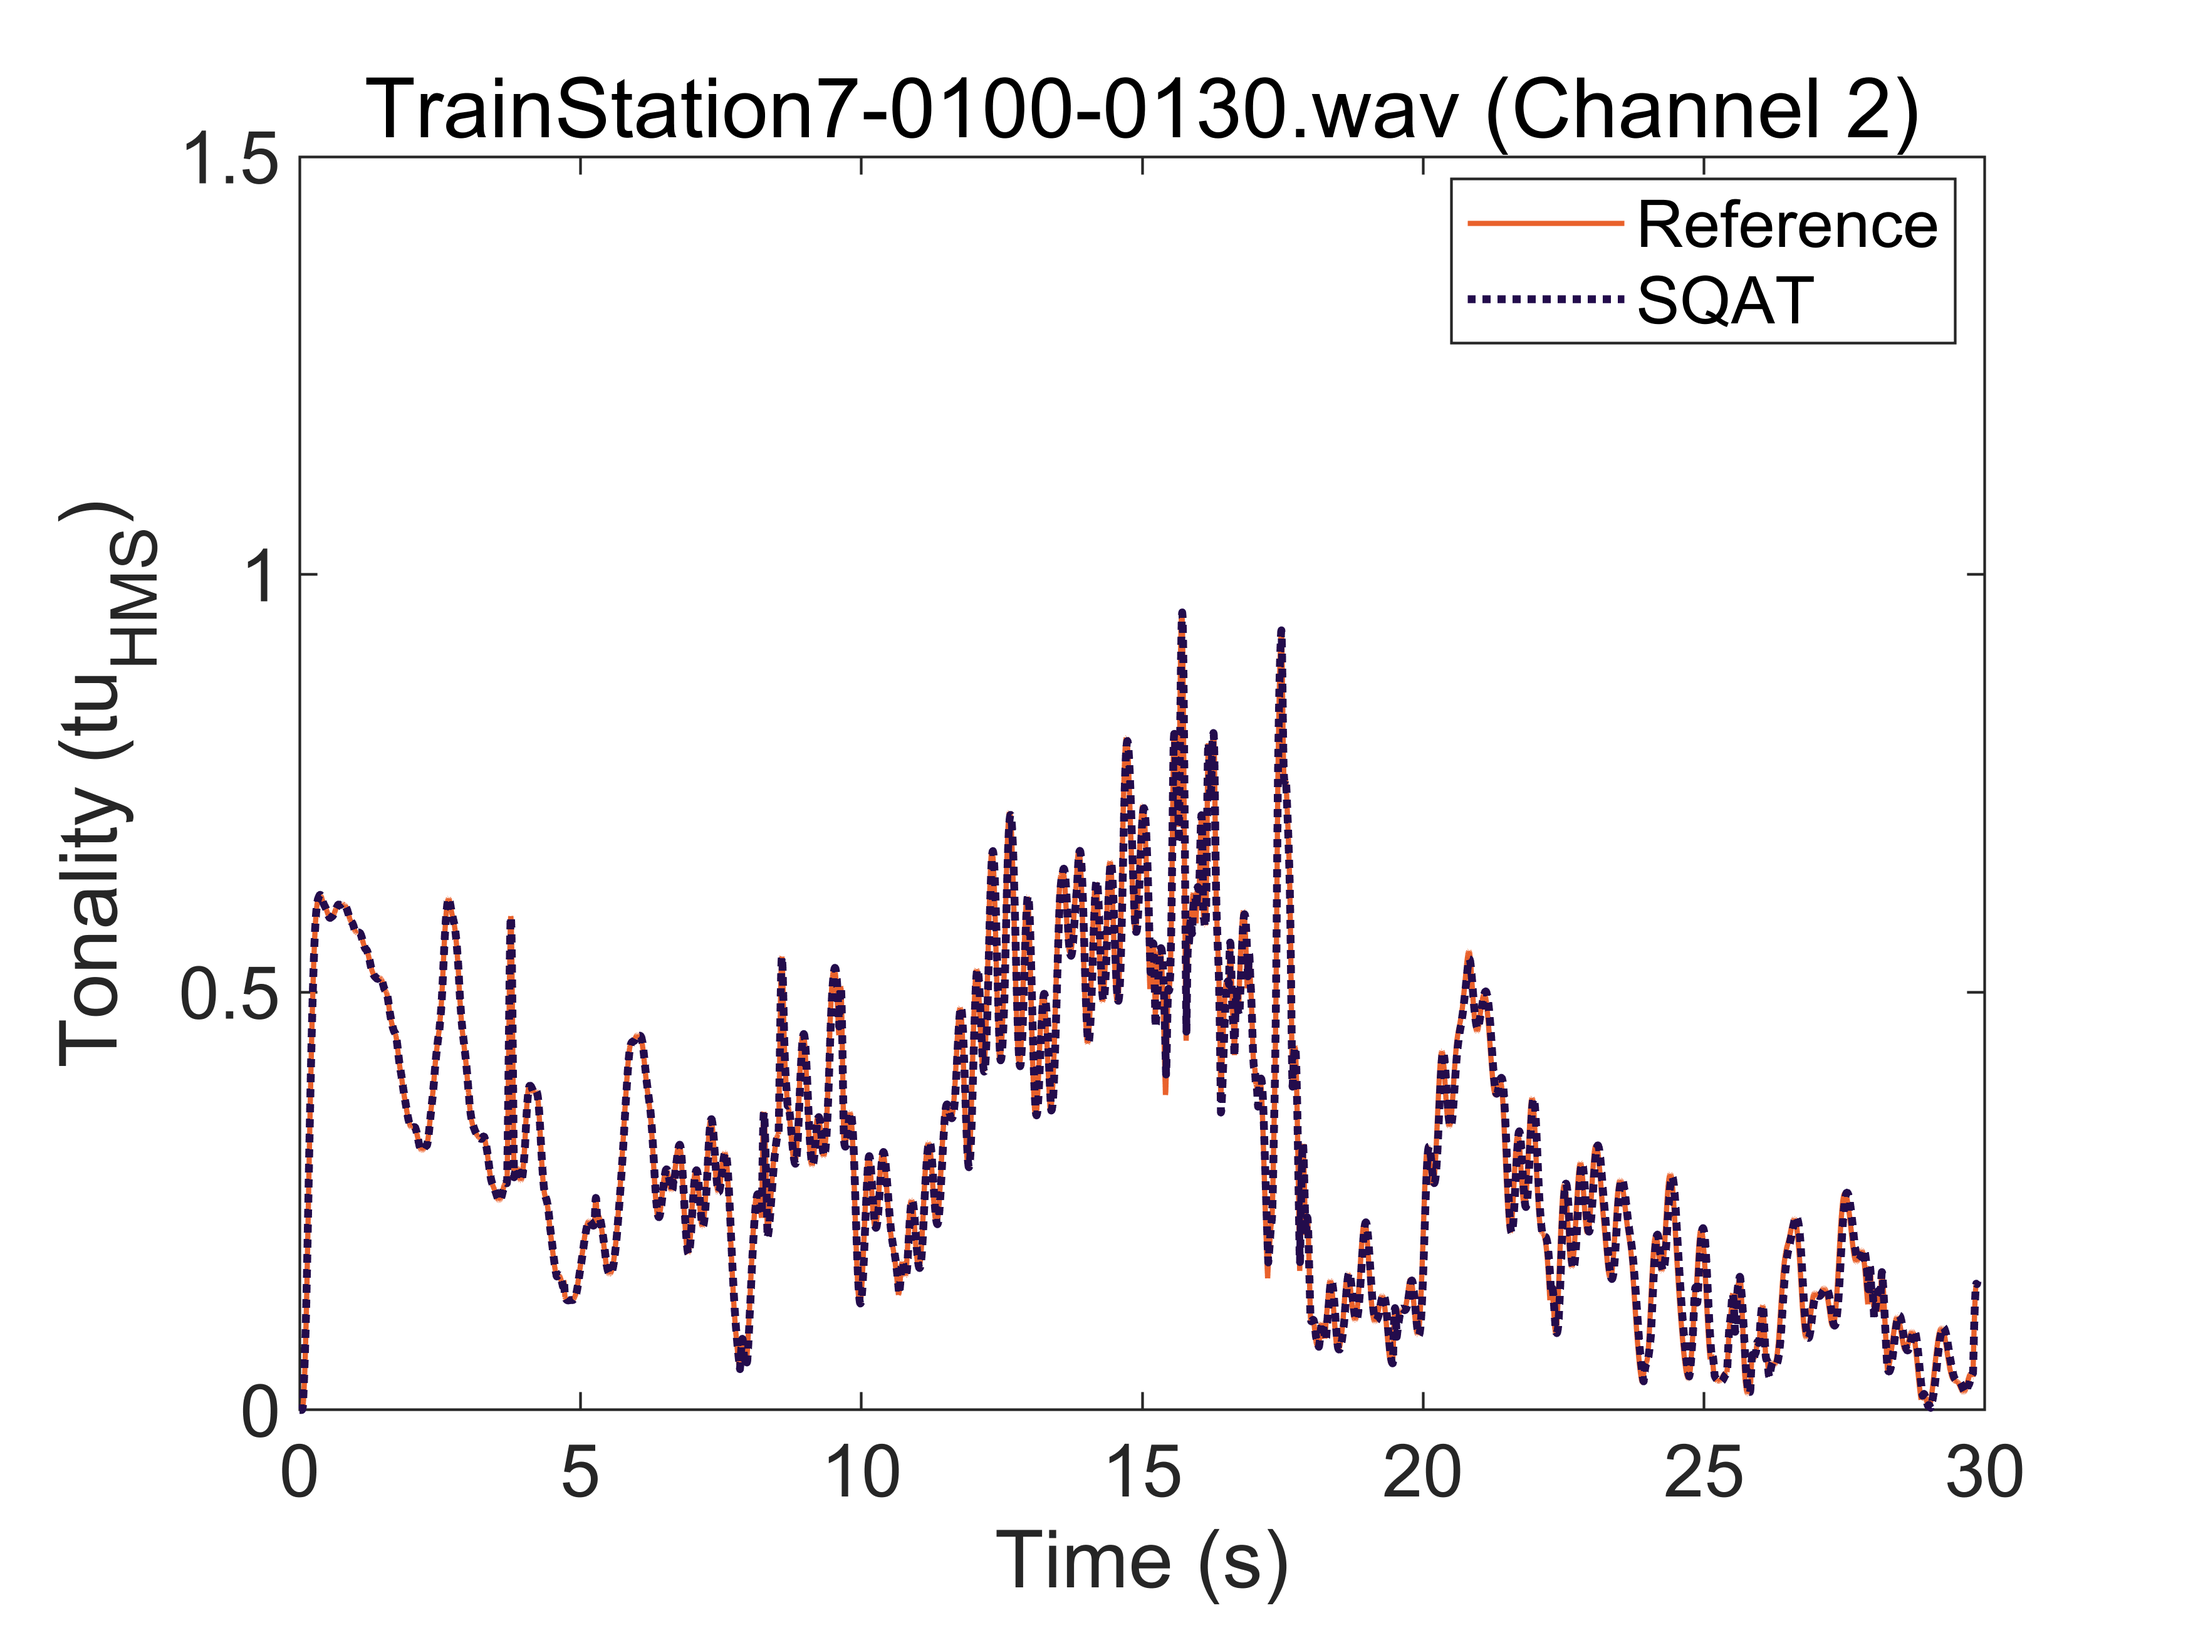
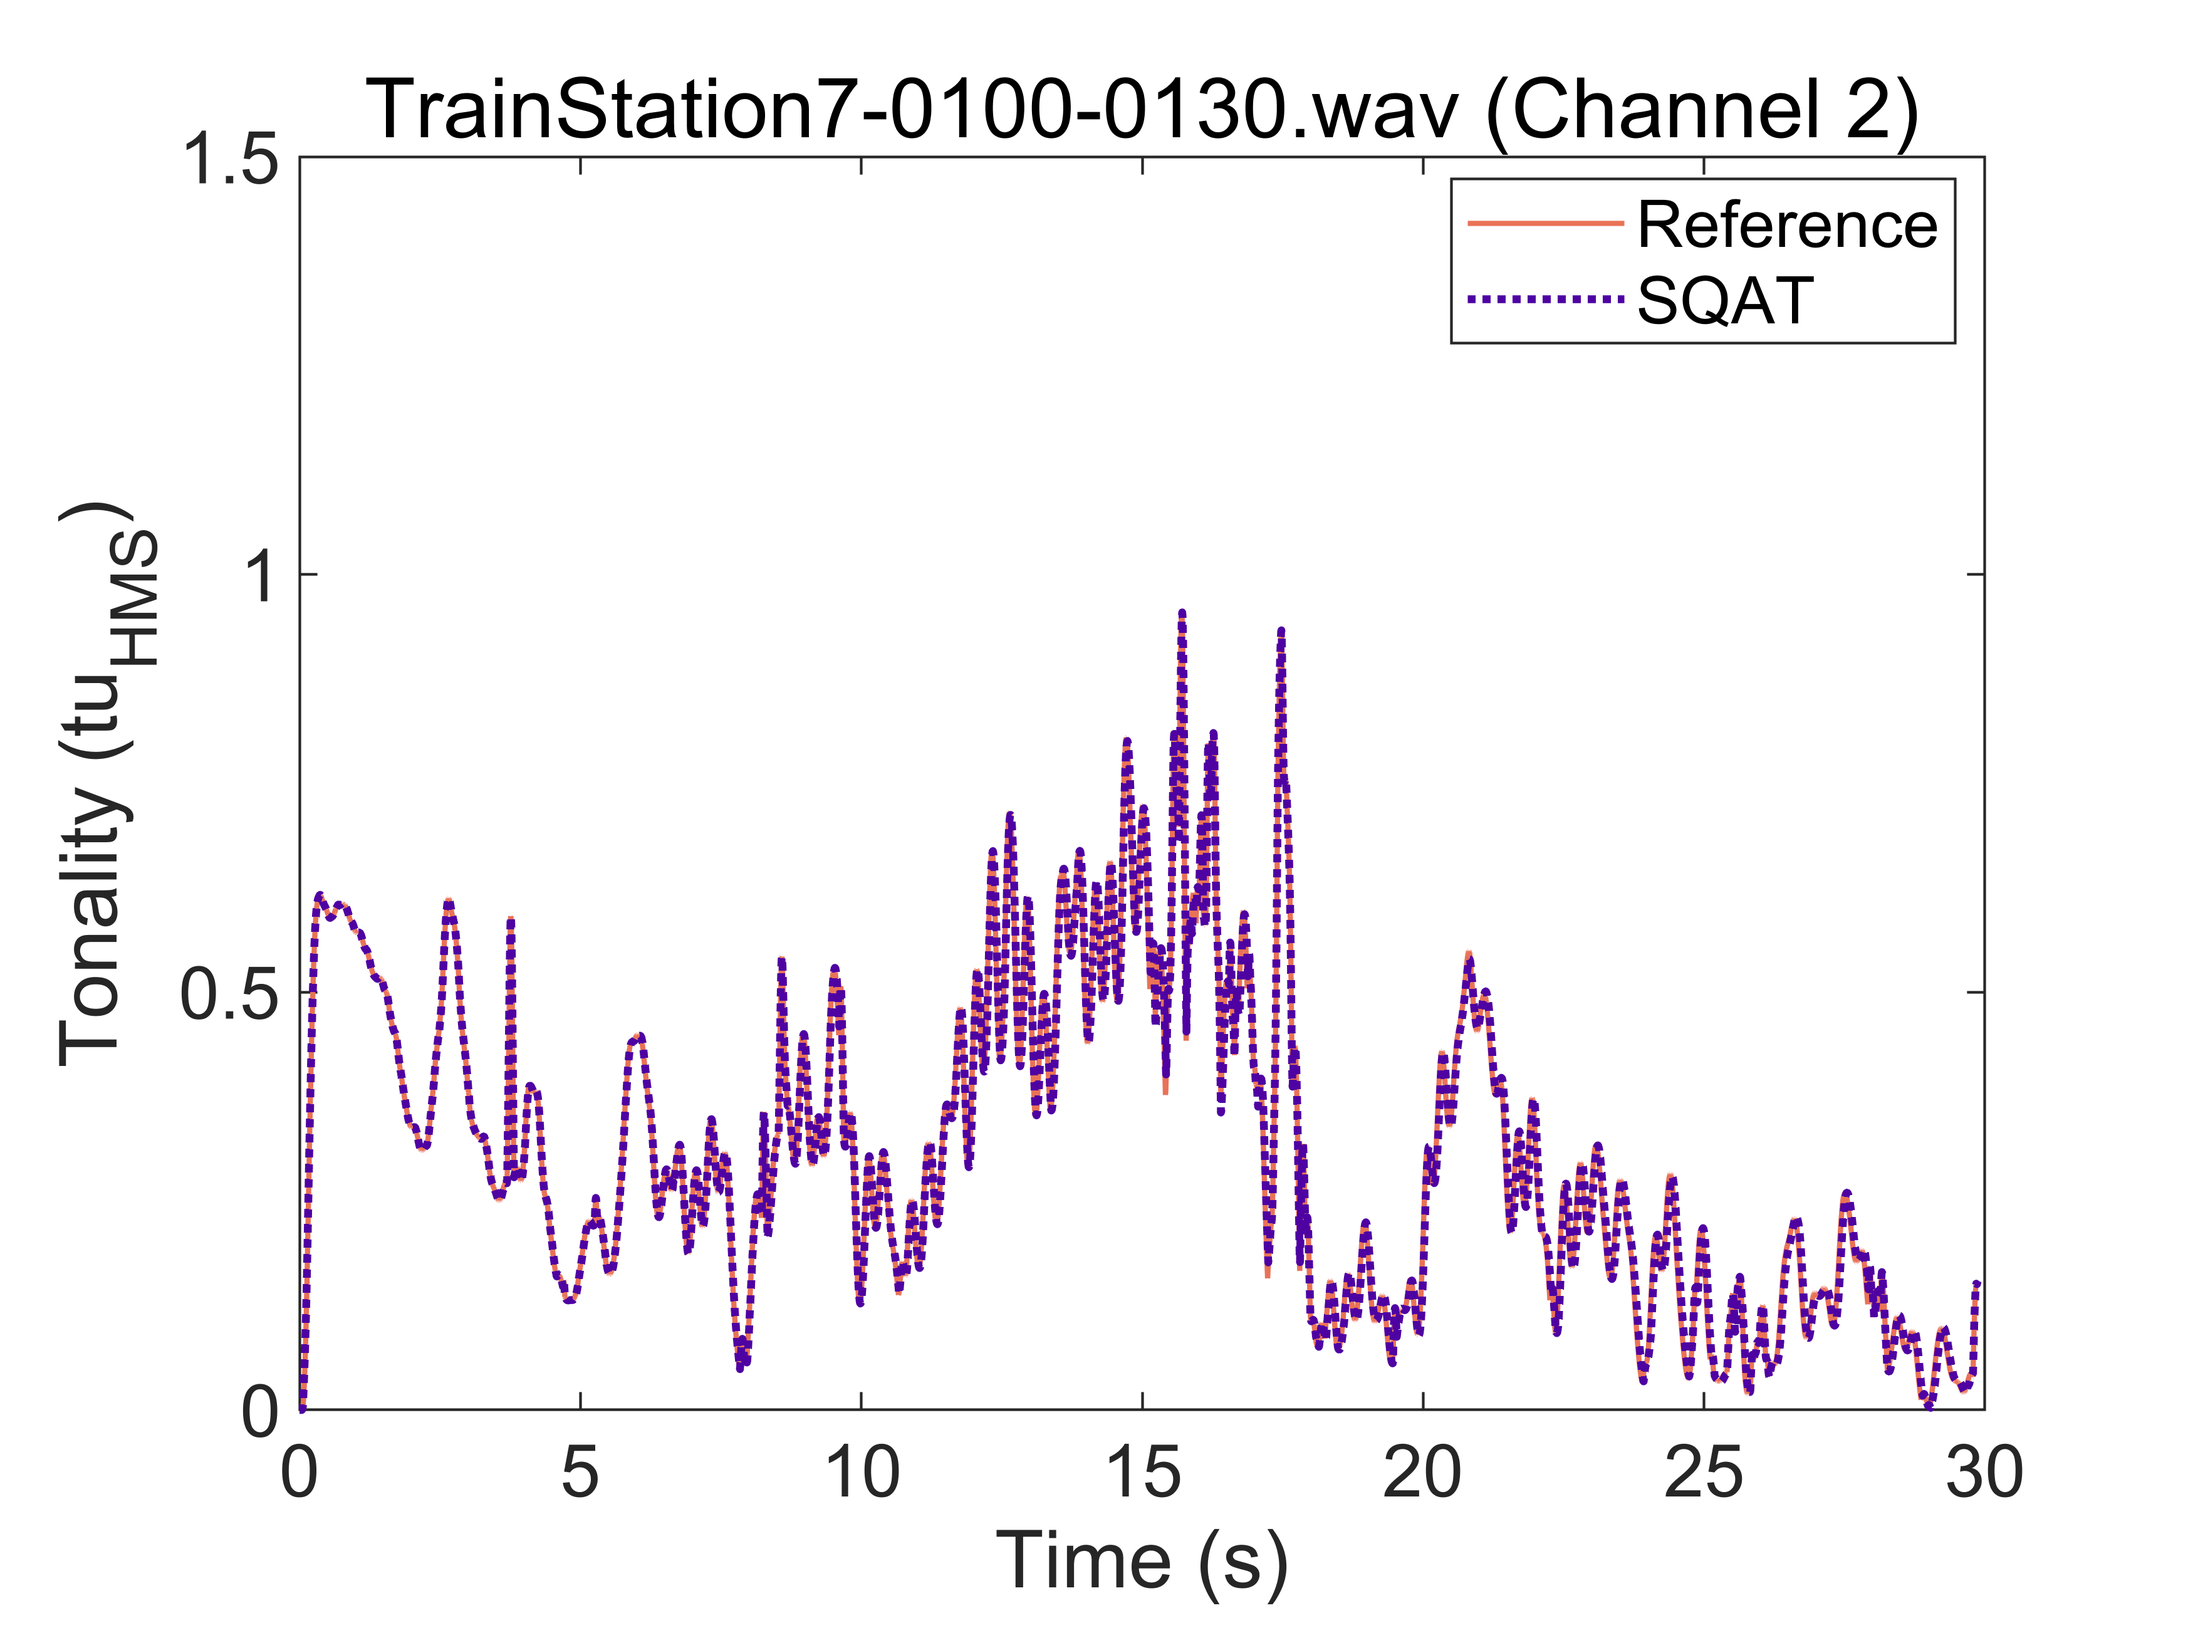
update Tonality_ECMA418_2_software_comparison
- adopting visual identity from refmap
- updating results
- update input signal, now hosted in the reference signals folder

diff --git a/validation/Tonality_ECMA418_2/Tonality_ECMA418_2_software_comparison/Tonality_ECMA418_2_software_comparison.m b/validation/Tonality_ECMA418_2/Tonality_ECMA418_2_software_comparison/Tonality_ECMA418_2_software_comparison.m
@@ -14,27 +14,26 @@
 %   OUT = Tonality_ECMA418_2(insig, fs, fieldtype, time_skip, show)
 %   type <help Tonality_ECMA418_2> for more info
 %
-% Author: Gil Felix Greco, Braunschweig 31.01.2025
+% Author: Gil Felix Greco, Braunschweig 10.02.2025
 %%%%%%%%%%%%%%%%%%%%%%%%%%%%%%%%%%%%%%%%%%%%%%%%%%%%%%%%%%%%%%%%%%%%%%%%%%%%%%%%
 clc; clear all; close all;
 
-save_figs = 0; % save figure flag
+save_figs = 1; % save figure flag
 
-%% Load  binaural .wav file
+%% Load  stereo .wav file
  
-dir_sound = [basepath_SQAT 'sound_files' filesep 'verification_SQAT_ECMA418_2' filesep];
+dir_sound = [basepath_SQAT 'sound_files' filesep 'reference_signals' filesep];
 
+fileTag = 'ExStereo_';
 wav_file = 'TrainStation7-0100-0130';
 
-[insig, fs] = audioread([dir_sound wav_file '.wav']); 
+[insig, fs] = audioread([dir_sound fileTag wav_file '.wav']); 
 
-time_insig = (0 : length(insig)-1) ./ fs;  % time vector of the audio input, in seconds
-
-%% Compute Tonality (binaural signal)
+%% Compute Tonality (stereo signal)
 
 fieldtype = 'free-frontal'; % string (default: 'free-frontal'; or 'diffuse')
 time_skip = 304e-3;% time_skip, in seconds for statistical calculations (default: 0 seconds)
-show = 1; % show results, 'false' (disable, default value) or 'true' (enable)
+show = 0; % show results, 'false' (disable, default value) or 'true' (enable)
 
 OUT = Tonality_ECMA418_2(insig, fs, fieldtype, time_skip, show);
 
@@ -126,7 +125,7 @@ set(h,'Units','Inches');
 pos = get(h,'Position');
 set(h,'PaperPositionMode','Auto','PaperUnits','Inches','PaperSize',[pos(3), pos(4)])
 
-cmap  = load('cmap_inferno.txt');
+cmap  = load('cmap_plasma.txt');
 cmap1 = 166;
 cmap2 = 34;
 
@@ -175,7 +174,7 @@ end
 
 function il_plt_avgSpecific( yRef, ySQAT, label_title, save_figs, label_fig)
 
-cmap  = load('cmap_inferno.txt');
+cmap  = load('cmap_plasma.txt');
 cmap1 = 166;
 cmap2 = 34;
 
@@ -275,7 +274,7 @@ str_xlabel = {'Ch1'; 'Ch2'};
 br=bar(str_xlabel, single_values);
 ylabel("Tonality (tu_{HMS})")
 
-cMap = load('cmap_inferno.txt');
+cMap = load('cmap_plasma.txt');
 colororder([cMap(166, :); cMap(34, :)])
 
 for bb = 1:length(br)

diff --git a/validation/Loudness_ECMA418_2/2_Loudness_ECMA418_2_software_comparison/Loudness_ECMA418_2_software_comparison.m b/validation/Loudness_ECMA418_2/2_Loudness_ECMA418_2_software_comparison/Loudness_ECMA418_2_software_comparison.m
@@ -18,7 +18,7 @@
 %%%%%%%%%%%%%%%%%%%%%%%%%%%%%%%%%%%%%%%%%%%%%%%%%%%%%%%%%%%%%%%%%%%%%%%%%%%%%%%%
 clc; clear all; close all;
 
-save_figs = 1; % save figure flag
+save_figs = 0; % save figure flag
 
 %% Load  stereo .wav file
  

diff --git a/validation/Roughness_ECMA418_2/2_Roughness_ECMA418_2_software_comparison/README.md b/validation/Roughness_ECMA418_2/2_Roughness_ECMA418_2_software_comparison/README.md
@@ -6,7 +6,7 @@ Green et al. [2], is licenced under Creative Commons Attribution 4.0.
 <!-- Artemis Suite 15.7-->
 
 # How to use this code
-This is a standalone code. Therefore, no extra steps are required to run it.
+The following sound file is required: `ExStereo_TrainStation7-0100-0130.wav`, which is stored in the `sound_files\reference_signals` folder. 
 
 # Results
 
@@ -33,7 +33,7 @@ This is a standalone code. Therefore, no extra steps are required to run it.
 
 
 # Log
-Created by Gil Felix Greco (31.01.2025)
+Last checked by: Gil Felix Greco (10.02.2025)
 
 
 

diff --git a/validation/Tonality_ECMA418_2/Tonality_ECMA418_2_software_comparison/README.md b/validation/Tonality_ECMA418_2/Tonality_ECMA418_2_software_comparison/README.md
@@ -6,7 +6,7 @@ Green et al. [2], is licenced under Creative Commons Attribution 4.0.
 <!-- Artemis Suite 15.7-->
 
 # How to use this code
-This is a standalone code. Therefore, no extra steps are required to run it.
+The following sound file is required: `ExStereo_TrainStation7-0100-0130.wav`, which is stored in the `sound_files\reference_signals` folder. 
 
 # Results
 
@@ -32,7 +32,7 @@ This is a standalone code. Therefore, no extra steps are required to run it.
 
 
 # Log
-Created by Gil Felix Greco (31.01.2025)
+Last checked by: Gil Felix Greco (10.02.2025)
 
 
 
